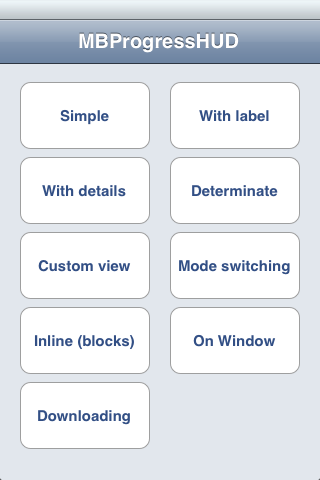
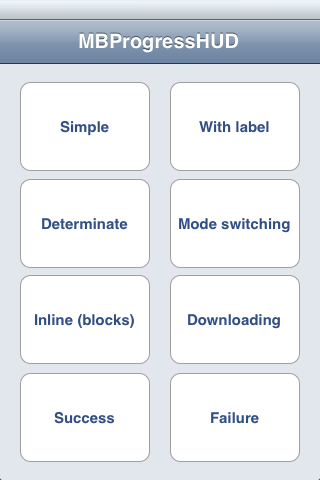
Improve the demos.

diff --git a/HudDemo/HudDemoViewController.m b/HudDemo/HudDemoViewController.m
@@ -91,19 +91,6 @@
 	}];
 }
 
-- (IBAction)showOnWindow:(id)sender {
-	// The hud will dispable all input on the window
-    HUD = [MBProgressHUD new];
-    [self.view.window addSubview:HUD];
-	
-	HUD.removeFromSuperViewOnHide = YES;
-    HUD.label.text = @"Loading";
-	
-	[HUD showWhileExecuting:^{
-		[self myTask];
-	}];
-}
-
 - (IBAction)showURL:(id)sender {
 	NSURL *URL = [NSURL URLWithString:@"https://github.com/matej/MBProgressHUD/zipball/master"];
 	NSURLRequest *request = [NSURLRequest requestWithURL:URL];

diff --git a/HudDemo/HudDemoViewController.h b/HudDemo/HudDemoViewController.h
@@ -22,7 +22,6 @@
 - (IBAction)showWithLabelDeterminate:(id)sender;
 - (IBAction)showWithLabelMixed:(id)sender;
 - (IBAction)showUsingBlocks:(id)sender;
-- (IBAction)showOnWindow:(id)sender;
 - (IBAction)showURL:(id)sender;
 - (IBAction)showWithSuccess:(id)sender;
 - (IBAction)showWithError:(id)sender;
